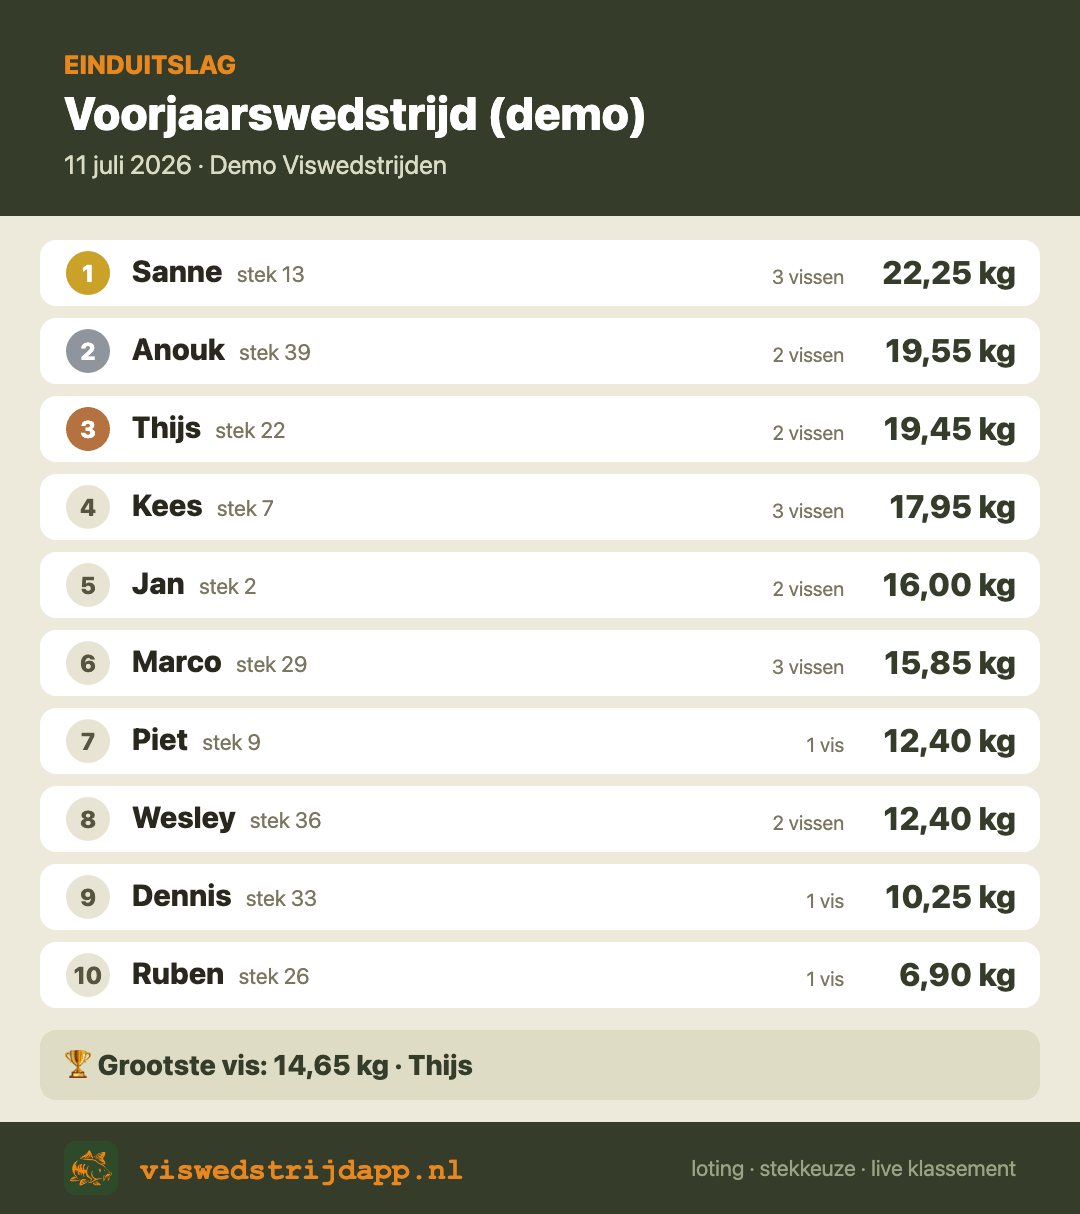
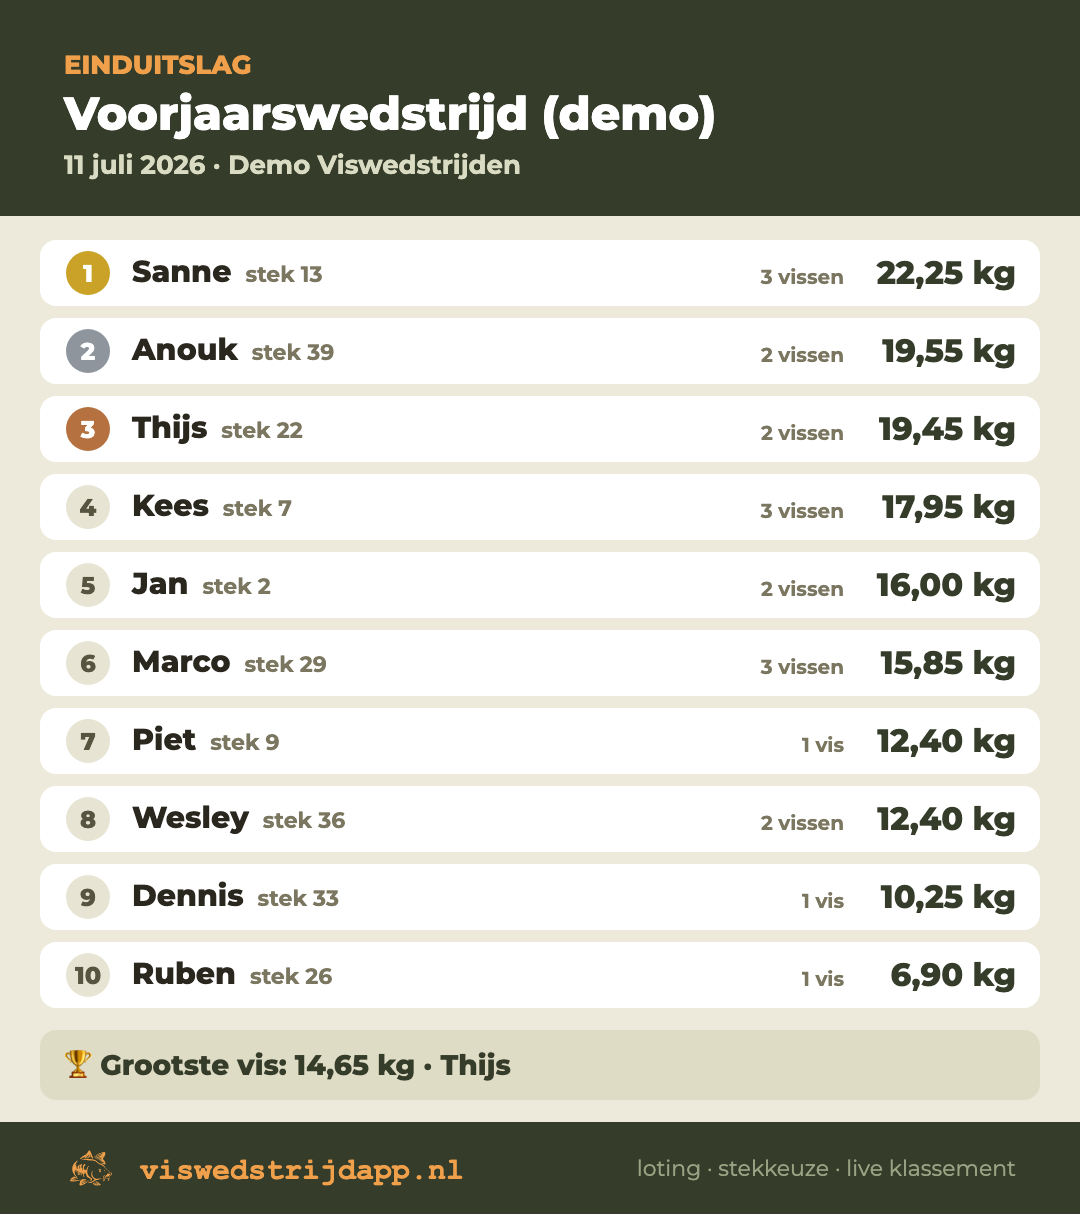
Site: nieuwe navigatie in beeld, verse schermopnamen
De landingspagina toont nu het tegeloverzicht van de app in het blok "Alles vanaf een
scherm" (sectie over de wedstrijddag), en de schermopname van het klassement is opnieuw
gemaakt met de vaste balk onderaan. De gedeelde einduitslag is opnieuw opgehaald, nu in
Montserrat.

tools/canvas_beeld.mjs haalt zo'n canvas-afbeelding voortaan rechtstreeks uit de live app
op, zodat dat niet meer met de hand hoeft. Het draaiboek spreekt niet meer van het
"Seizoen-tabblad" maar van Seizoen, zodat het klopt met en zonder tegelnavigatie.

diff --git a/docs/index.html b/docs/index.html
@@ -59,7 +59,7 @@
         </div>
         <div class="hero-telefoon">
           <div class="telefoon-frame">
-            <img src="schermen/scherm-klassement.png" alt="Het live klassement in de app, met per visser het gewicht en de opbouw per gevangen vis" width="780" height="1688">
+            <img src="schermen/scherm-klassement.png" alt="Het live klassement in de app, met per visser het gewicht en de opbouw per gevangen vis, en onderin de vaste navigatiebalk" width="780" height="1688">
           </div>
         </div>
       </div>
@@ -115,6 +115,21 @@
           <span class="nr">03</span>
           <div><b>Na afloop</b><p>Op de eindtijd staat de uitslag vast. Iedereen krijgt een
           melding met de winnaar en de tijd van de prijsuitreiking.</p></div>
+        </div>
+      </div>
+
+      <div class="beeldduo mockup-duo" style="margin-top:clamp(26px,4vw,44px)">
+        <div>
+          <h3>Alles vanaf <span class="accent">één scherm</span></h3>
+          <p class="klein">Wie de app opent ziet meteen waar het om gaat: het viswater met
+          de stekken, de loting, het klassement en de vangsten. Onderin staat een vaste
+          balk, zodat je met één tik naar de kaart of de vangsten gaat, ook met natte
+          handen. De knop om een vangst door te geven zweeft daarboven, op elk scherm.</p>
+        </div>
+        <div class="beeld">
+          <div class="telefoon-frame" style="max-width:280px;margin:0 auto">
+            <img src="schermen/scherm-overzicht.png" alt="Het startscherm van een wedstrijd in de app: vier tegels voor viswater, loting, klassement en vangsten, met onderin een vaste navigatiebalk" width="780" height="1688" loading="lazy">
+          </div>
         </div>
       </div>
     </div>

diff --git a/draaiboek-wedstrijddag.md b/draaiboek-wedstrijddag.md
@@ -12,7 +12,7 @@ in je wachtwoordmanager (staat nergens op papier of in de app).
    staat er automatisch op. Telt de wedstrijd mee voor een competitie? Koppel
    hem dan aan het seizoen (dropdown op de wedstrijdkaart in de
    organisatie-omgeving); deelnemers en kijkers krijgen er dan een
-   Seizoen-tabblad met de doorlopende stand bij.
+   Seizoen met de doorlopende stand bij.
    **Sneller: 📋 Als sjabloon.** Staat er al een vergelijkbare wedstrijd in de
    lijst, tik dan op die knop. Type, maximum, regels, de duur en het seizoen
    worden overgenomen, en de datum schuift door naar dezelfde weekdag en tijd
@@ -114,7 +114,7 @@ op gaan, niet pas op de stek.
   "Deel de einduitslag": één tik en de uitslag gaat als afbeelding de
   groepsapp of social media in. Vissers kunnen tijdens en na de wedstrijd hun
   eigen vangst delen (deel-knop bij de vangst). Bij een competitie kan ook de
-  seizoensstand gedeeld worden vanaf het Seizoen-tabblad.
+  seizoensstand gedeeld worden vanaf Seizoen.
 - De wedstrijd blijft bewaard onder "Eerdere wedstrijden"; deelnemers en
   kijkers kunnen alles terugkijken met hun code.
 - Wil je hem later definitief weg (inclusief alle foto's): het 🗑-knopje,

diff --git a/CLAUDE.md b/CLAUDE.md
@@ -892,8 +892,12 @@ zie ook feedback_docs_consequent.md in de memory). De lijst:
    `scherm-loting.png` (stekkeuze), `scherm-kaart-nphv.png` (dieptekaart),
    `scherm-seizoen.png` (seizoensklassement), `scherm-home.png` (startscherm) en
    `uitslag-gedeeld.png`. Die laatste is GEEN schermopname maar de afbeelding
-   die de app zelf op een canvas tekent: opgehaald met
-   `tekenUitslag().toDataURL()` na `wachtOpVoetLogo()`.
+   die de app zelf op een canvas tekent: sinds 21 sep met
+   **`node tools/canvas_beeld.mjs <uit.png> <url> "<js dat een dataURL teruggeeft>"`**
+   (zelfde headless Chrome als mobiel_screenshot.mjs).
+   **`scherm-overzicht.png` (21 sep):** het tegeloverzicht van de demo bij "Zo loopt
+   jullie wedstrijddag", blok "Alles vanaf één scherm". De demo draait de tegelnavigatie
+   al, NPHV nog niet; de site toont dus wat een nieuwe klant krijgt.
    **Echte vangstfoto's (14 aug):** vier foto's van Patrick in de sectie
    "Vangst erin, klassement bijgewerkt" (`.fotostrook`), plus zes in
    `docs/schermen/vangsten/` waarvan er twee alleen in de schermopname van de
